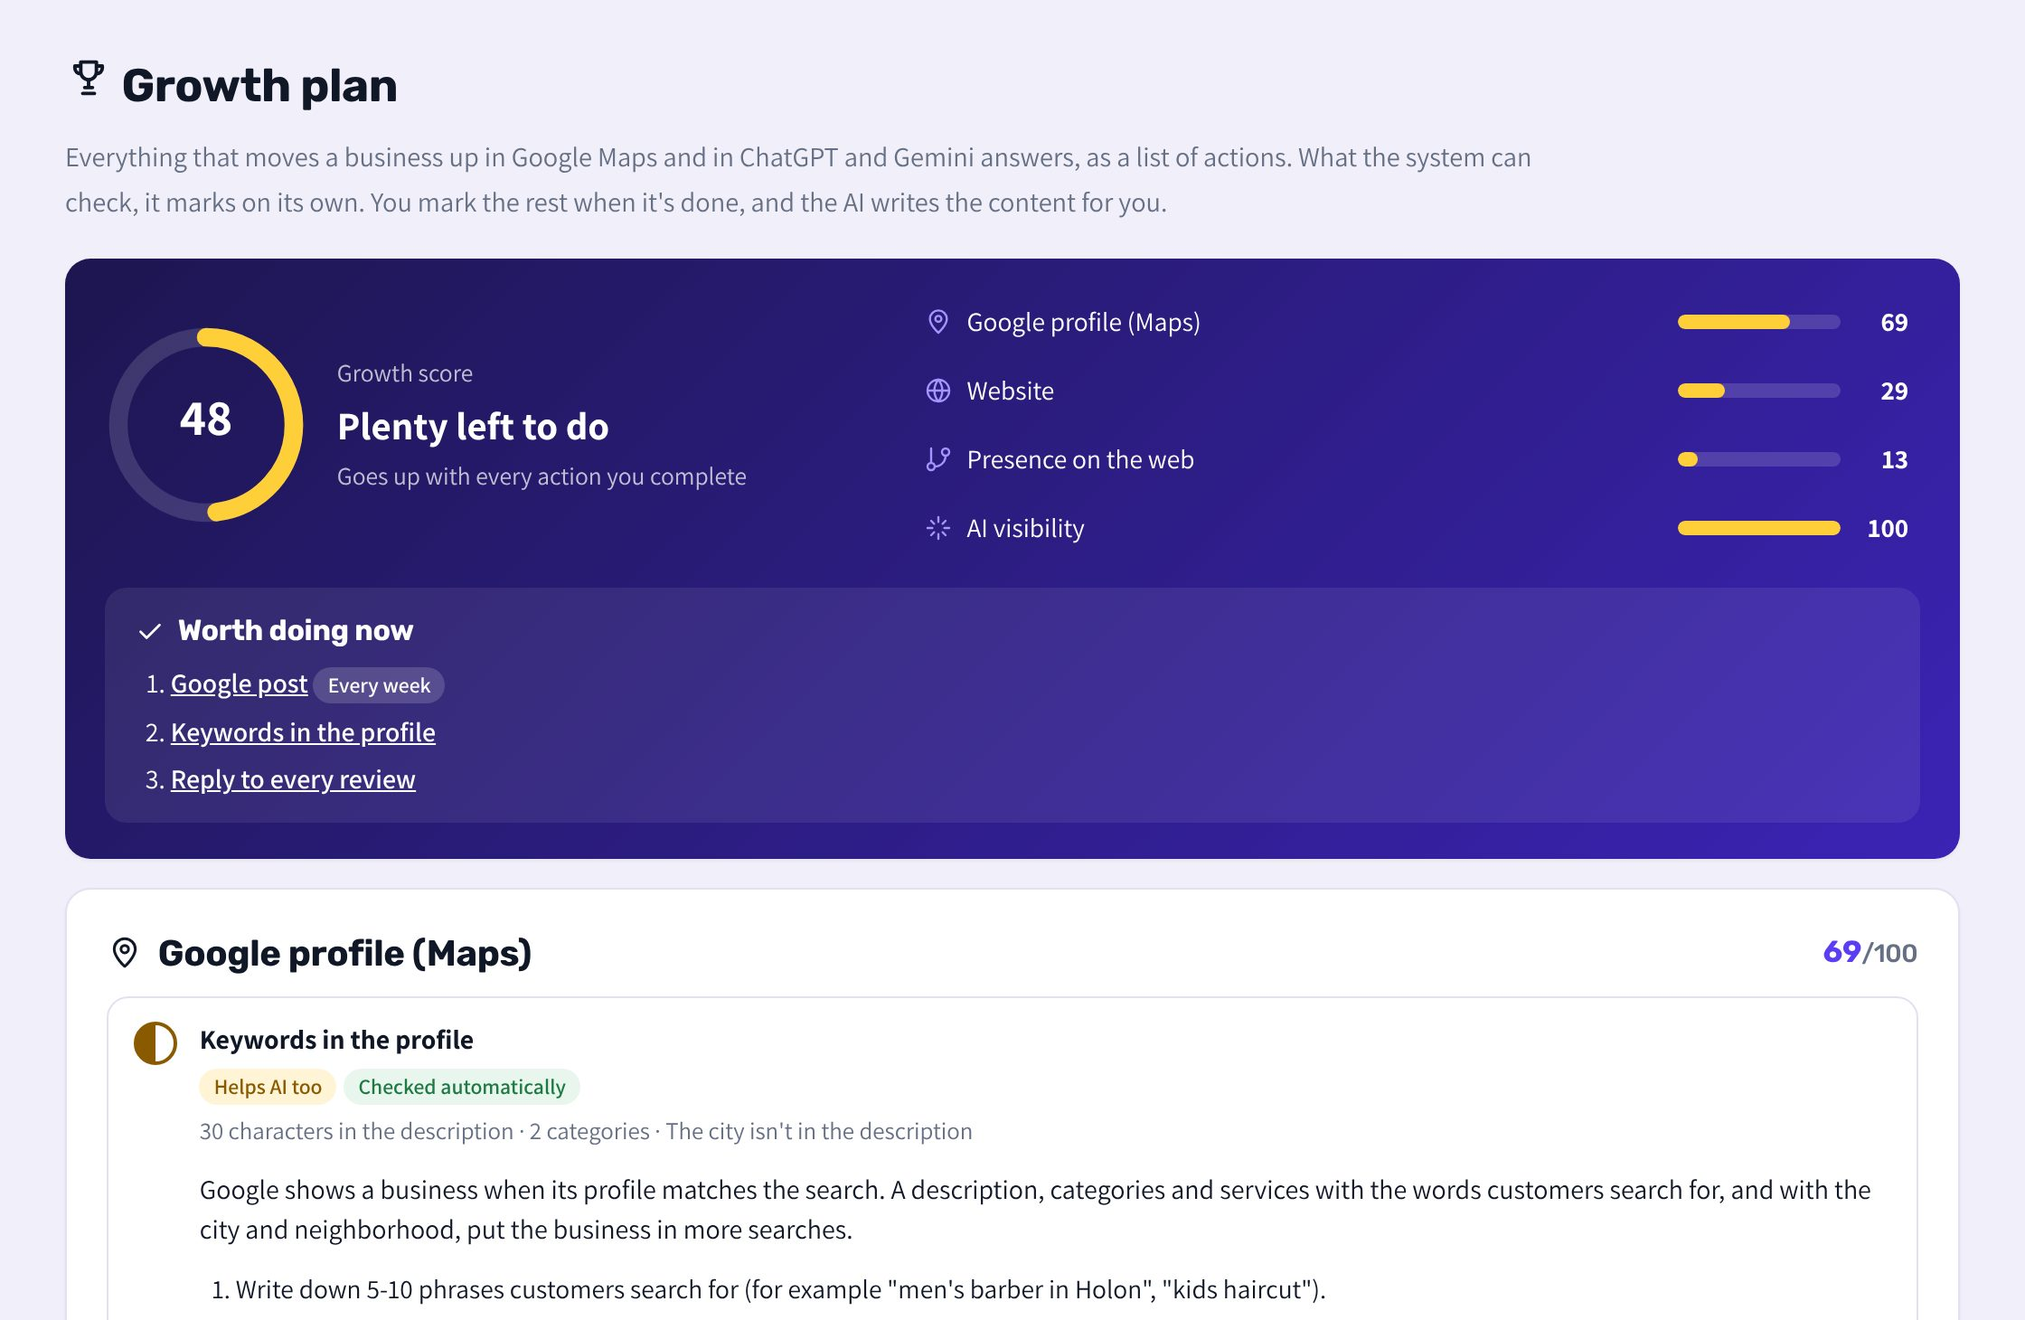
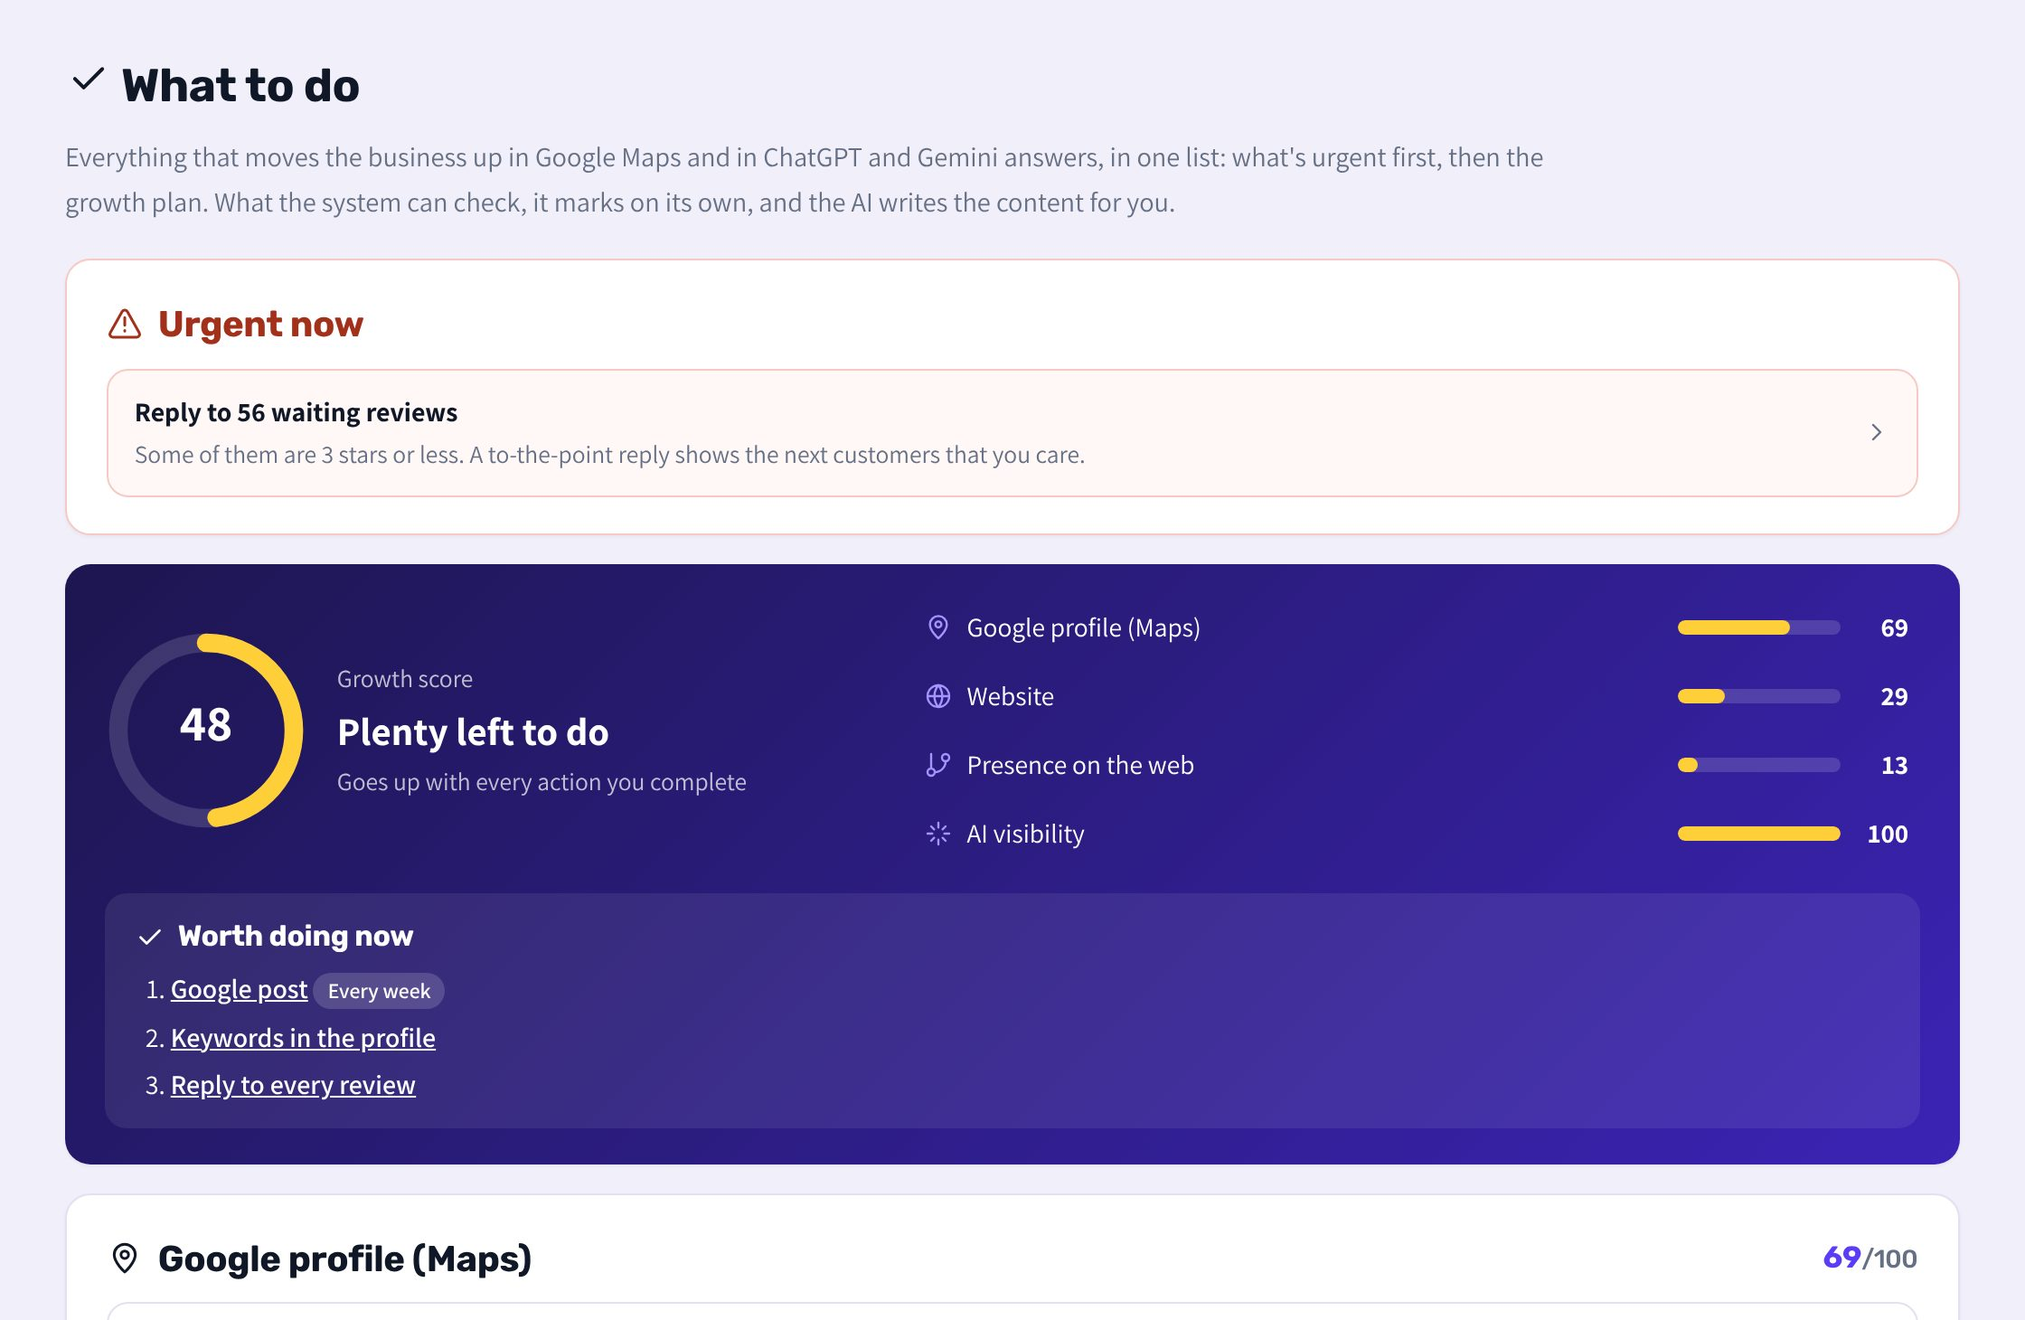
The site and the guides follow the new names: "What to do" with stage 2, Maps, Getting reviews; new screenshots of the dashboard, What to do and Maps; the arrow on the action cards points the reading way
Claude-Session: https://claude.ai/code/session_01MDnwDTcb7MFbwhwXH5wSu9

diff --git a/src/guide.js b/src/guide.js
@@ -52,7 +52,7 @@ export const CONNECT_GUIDE = {
       points: [
         'חוזרים למערכת ורואים את רשימת הסניפים שבחשבון. מסמנים את מי שרוצים לעקוב אחריו.',
         'תוך דקה מופיעים הביקורות והדירוג, ותוך כמה דקות הצפיות והשיחות של 18 החודשים האחרונים. גוגל מוסרת את המספרים האלה באיחור של כמה ימים, אז הימים האחרונים מתמלאים בהדרגה.',
-        'בדיקת בריאות הפרופיל והתוכנית לקידום במפות מגיעות תוך כרבע שעה. בעמוד "חיבור לגוגל" רואים מה כבר הגיע ומה עוד בדרך.',
+        'בדיקת בריאות הפרופיל והפעולות לקידום מגיעות תוך כרבע שעה. בעמוד "חיבור לגוגל" רואים מה כבר הגיע ומה עוד בדרך.',
       ],
     },
   ],
@@ -67,7 +67,7 @@ export const CONNECT_GUIDE = {
 export const GUIDE_GROUPS = [
   ['reputation', 'ביקורות ולקוחות'],
   ['profile', 'הפרופיל בגוגל'],
-  ['visibility', 'נראות ומתחרים'],
+  ['visibility', 'איפה אתם עומדים'],
   ['reports', 'דוחות וצוות'],
 ];
 
@@ -94,8 +94,8 @@ export const FEATURE_GUIDES = [
     image: 'poster.jpg',
     link: '/admin/poster',
     points: [
-      'ב"קמפיינים ו-QR" נמצא הקוד של העסק. לקוח שסורק מדרג בעשר שניות.',
-      'ב"עיצוב שלט QR" בוחרים תבנית, צבעים וגודל: מ-A3 לחלון ועד כרטיסי שולחן (4 בדף) וסטורי לוואטסאפ.',
+      'ב"איסוף ביקורות" נמצא הקוד של העסק. לקוח שסורק מדרג בעשר שניות.',
+      'בלשונית "עיצוב שלט QR" בוחרים תבנית, צבעים וגודל: מ-A3 לחלון ועד כרטיסי שולחן (4 בדף) וסטורי לוואטסאפ.',
       'לקוח מרוצה מקבל כפתור לכתיבת ביקורת בגוגל, עם מה שכתב כבר מועתק. מדפיסים, ומניחים ליד הקופה.',
     ],
   },
@@ -141,27 +141,28 @@ export const FEATURE_GUIDES = [
   {
     slug: 'growth',
     group: 'profile',
-    title: 'תוכנית קידום',
-    summary: 'כל הפעולות שמקדמות את העסק במפות וב-AI, עם ציון.',
+    title: 'מה לעשות: תוכנית הקידום',
+    summary: 'רשימה אחת: מה דחוף, וכל הפעולות שמקדמות את העסק במפות וב-AI.',
     image: 'growth.jpg',
     link: '/admin/growth',
     points: [
       'ארבעה מסלולים: הפרופיל בגוגל, האתר, נוכחות ברשת ונראות ב-AI. לכל פעולה כתוב למה היא חשובה ואיך עושים אותה.',
       'מה שהמערכת יכולה לבדוק (הפרופיל, הביקורות, האתר, בדיקות ה-AI) מסומן לבד. את השאר מסמנים "בוצע", ופעולות שבועיות וחודשיות חוזרות בזמן.',
       'ה-AI כותב את התוכן: תיאור לפרופיל, שאלות נפוצות, מאמר לאתר, הודעות לבקשת ביקורת ופניות לקישורים ולכתבות. ציון הקידום עולה עם כל פעולה.',
+      'בציון 85 נפתח שלב 2, "להוביל באזור": יעדים מול המתחרים (בטופ 3 במפות, ביקורות מול המוביל, אזכורים ב-AI) עם ההתקדמות מלפני חודש, ושגרה שבועית עם רצף.',
     ],
   },
   {
     slug: 'maps',
     group: 'profile',
-    title: 'קידום בגוגל מפות',
-    summary: 'תוכנית קצרה לכל שבוע, כדי לעלות במפות.',
+    title: 'מפות: מיקום ובריאות הפרופיל',
+    summary: 'איפה אתם עומדים בגוגל מפות, ומה חסר בפרופיל.',
     image: 'maps.jpg',
     link: '/admin/maps',
     points: [
       'בראש העמוד: ציון בריאות הפרופיל, ובכמה מהאזורים סביב העסק אתם בשלושת הראשונים במפות.',
-      '"מה לעשות השבוע": עד חמישה צעדים שנבנים מהנתונים שלכם, למשל מה חסר בפרופיל, כמה ביקורות חסרות לעומת המוביל באזור, ובאיזה כיוון אתם חלשים.',
-      'מסמנים "בוצע" על מה שעשיתם, ובשבוע הבא מגיעה רשימה חדשה. למטה בעמוד: המיקום במפות ובריאות הפרופיל בפירוט.',
+      'מתחת: המיקום במפות בכל כיוון סביב העסק, ובריאות הפרופיל בפירוט, עם מה שחסר.',
+      'מה לעשות כדי לעלות נמצא במקום אחד: בעמוד "מה לעשות", יחד עם כל שאר הפעולות.',
     ],
   },
   {
@@ -174,7 +175,7 @@ export const FEATURE_GUIDES = [
     points: [
       'המערכת בודקת את הפרופיל: שעות, תמונות, תיאור, קטגוריות, טלפון, אתר ועוד.',
       'כל מה שחסר מופיע עם הסבר קצר מה לעשות. מה שתוקן מסומן בירוק.',
-      'הבדיקה רצה לבד כל שבוע, וגם בלחיצה על "בדיקת פרופיל" בעמוד קידום במפות.',
+      'הבדיקה רצה לבד כל שבוע, וגם בלחיצה על "בדיקת פרופיל" בעמוד מפות.',
     ],
   },
   {
@@ -195,14 +196,14 @@ export const FEATURE_GUIDES = [
     slug: 'dashboard',
     group: 'profile',
     title: 'הדשבורד: המספרים ומה לעשות',
-    summary: 'חמישה מספרים, המשימות לשבוע, ומה לקוחות עשו בפרופיל.',
+    summary: 'חמישה מספרים, ומה לעשות עכשיו.',
     image: 'dashboard.jpg',
     link: '/admin',
     full: true,
     points: [
       'למעלה חמישה מספרים: דירוג בגוגל, ביקורות חדשות, מחכים לתשובה, פניות מגוגל, ובטופ 3 במפות. כל אחד עם השינוי מהתקופה הקודמת.',
-      '"מהפרופיל בגוגל": צפיות, שיחות, בקשות הגעה וכניסות לאתר, והחיפושים שבהם מצאו אתכם.',
-      '"המשימות השבוע": רשימה קצרה של מה לעשות. בתחתית, "כל הנתונים והגרפים" נפתח למי שרוצה לחפור.',
+      '"מה לעשות עכשיו": שלוש פעולות, הדחופות קודם (לענות לביקורות, לחזור ללקוח לא מרוצה), עם ציון הקידום. בשלב 2 גם היעדים מול האזור.',
+      'בתחתית, "כל הנתונים והגרפים" נפתח למי שרוצה לחפור: צפיות, שיחות, בקשות הגעה, החיפושים שבהם מצאו אתכם, וגרפים.',
     ],
   },
   {

diff --git a/src/views/site.js b/src/views/site.js
@@ -223,10 +223,10 @@ const shot = (file) => asset(`media/${isEn() ? 'guide-en' : 'guide'}/${file}`);
 
 /** The screenshots on the landing page. */
 const SCREENS = [
-  ['dashboard', 'דשבורד', 'חמשת המספרים שחשובים, מה לעשות השבוע, ומה לקוחות עשו בפרופיל ואיך מצאו אתכם.'],
+  ['dashboard', 'דשבורד', 'חמשת המספרים שחשובים, ומה לעשות עכשיו: הדחוף קודם, ואחריו הצעד הבא בקידום.'],
   ['reviews', 'ביקורות', 'עונים לכל ביקורת ישר מהרשימה: תשובה מוכנה או טיוטה ב-AI, עם סינון לפי כוכבים, תקופה וחיפוש.'],
-  ['growth', 'תוכנית קידום', 'כל הפעולות שמקדמות אתכם במפות וב-AI, עם ציון התקדמות ו-AI שכותב את התוכן.'],
-  ['maps', 'קידום במפות', 'תוכנית קצרה לכל שבוע: מה לתקן בפרופיל ומה לעשות כדי לעלות בגוגל מפות.'],
+  ['growth', 'מה לעשות', 'כל הפעולות שמקדמות אתכם במפות וב-AI ברשימה אחת, עם ציון התקדמות, AI שכותב את התוכן, ויעדים מול האזור.'],
+  ['maps', 'מפות', 'בריאות הפרופיל ובכמה מהאזורים סביב העסק אתם בטופ 3 במפות.'],
   ['rank', 'מיקום במפות', 'איפה אתם מופיעים בגוגל מפות בכל שכונה, מול המתחרים.'],
   ['ai', 'נראות ב-AI', 'האם ChatGPT, Gemini וגוגל ממליצים עליכם, ומה לעשות כדי שכן.'],
   ['report', 'דוח חודשי', 'דוח מסודר בכל חודש, להדפסה או לשליחה.'],
@@ -248,11 +248,11 @@ export function landingView({ signupOpen, trialOpen = false, contactSent = false
     ],
     [
       'איך GoFive עוזרת לעלות בגוגל מפות?',
-      'גוגל מדרגת עסקים במפות לפי שלושה דברים: כמה הפרופיל מתאים לחיפוש, כמה העסק בולט ופעיל (ביקורות, תשובות, פוסטים), וכמה הוא קרוב למי שמחפש. בעמוד "קידום במפות" GoFive בודקת את כל אלה, ובונה לכם כל שבוע תוכנית קצרה מהנתונים שלכם: מה להשלים בפרופיל, כמה ביקורות חסרות לעומת המוביל באזור, ובאיזה כיוון סביב העסק אתם חלשים. הבדיקה השבועית מראה אם עליתם.',
+      'גוגל מדרגת עסקים במפות לפי שלושה דברים: כמה הפרופיל מתאים לחיפוש, כמה העסק בולט ופעיל (ביקורות, תשובות, פוסטים), וכמה הוא קרוב למי שמחפש. GoFive בודקת את כל אלה כל שבוע, ובעמוד "מה לעשות" מחכה לכם רשימה אחת מהנתונים שלכם: מה להשלים בפרופיל, מה לעשות השבוע, כמה ביקורות חסרות לעומת המוביל באזור, ובאיזה כיוון סביב העסק אתם חלשים. הבדיקה השבועית מראה אם עליתם.',
     ],
     [
       'מה זו "תוכנית הקידום"?',
-      'רשימת כל הפעולות שמקדמות עסק בגוגל מפות ובתשובות של ChatGPT ו-Gemini: מילות מפתח ותמונות בפרופיל, פוסטים, ביקורות, שאלות נפוצות באתר, אינדקסים, קישורים ואזכורים. GoFive בודקת לבד את הפרופיל ואת האתר ומסמנת מה כבר בוצע, ה-AI כותב בשבילכם את התוכן (תיאור, שאלות נפוצות, תוכן לאתר, פניות), וציון הקידום עולה עם כל פעולה.',
+      'רשימת כל הפעולות שמקדמות עסק בגוגל מפות ובתשובות של ChatGPT ו-Gemini: מילות מפתח ותמונות בפרופיל, פוסטים, ביקורות, שאלות נפוצות באתר, אינדקסים, קישורים ואזכורים. GoFive בודקת לבד את הפרופיל ואת האתר ומסמנת מה כבר בוצע, ה-AI כותב בשבילכם את התוכן (תיאור, שאלות נפוצות, תוכן לאתר, פניות), וציון הקידום עולה עם כל פעולה. בציון 85 נפתח שלב 2: יעדים מול המתחרים באזור, עם ההתקדמות מחודש לחודש.',
     ],
     [
       'מאיפה מגיעים הנתונים של הצפיות והשיחות?',

diff --git a/public/style.css b/public/style.css
@@ -2969,8 +2969,8 @@ details.fold.warn > summary > .icon { color: #dc2626; }
 .todo-list a:hover { border-color: #cfc5ff; background: #fbfaff; }
 .todo-list li.urgent a { border-color: #f6c9c4; background: #fff8f7; }
 .todo-text { display: flex; flex-direction: column; gap: 2px; flex: 1; min-width: 0; }
-.todo-go { flex: none; color: var(--muted); transform: rotate(90deg); display: inline-flex; }
-[dir="rtl"] .todo-go { transform: rotate(90deg); }
+.todo-go { flex: none; color: var(--muted); transform: rotate(-90deg); display: inline-flex; }
+html[dir="rtl"] .todo-go { transform: rotate(90deg); }
 .gr-chip.urgent { background: #fde7e4; color: var(--bad); }
 .todo-all { justify-self: start; font-weight: 600; }
 .gr-urgent { border-color: #f6c9c4; }
